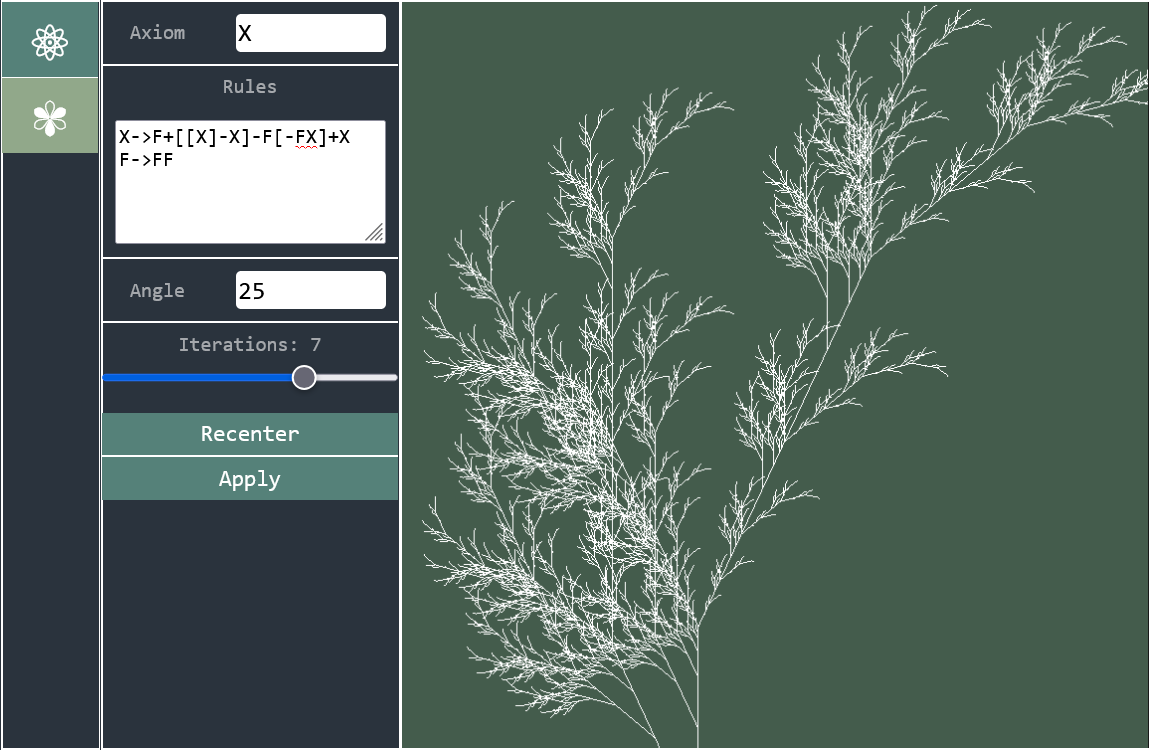
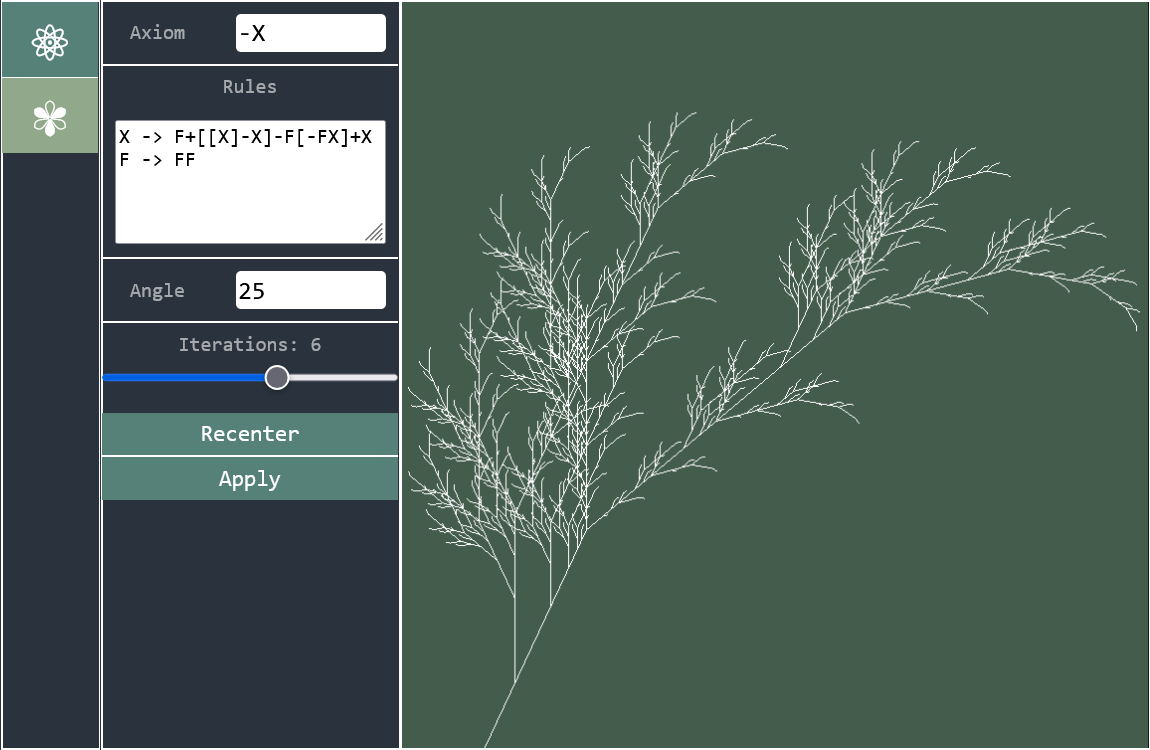
GRID size fixed, working on updated README

diff --git a/src/components/LSystem.vue b/src/components/LSystem.vue
@@ -6,12 +6,12 @@
       <div ref="settingsBar" class="settings border">
           <div class="settings-row">
             <label>Axiom</label>
-            <input type="text" v-model="axiomRef" @keyup.enter="generatePattern">
+            <input type="text" spellcheck="false" v-model="axiomRef" @keyup.enter="generatePattern">
           </div>
           <hr>
 
           <label title="[/] = push/pop, +/- = rotate, 0/1 = go forward">Rules</label>
-          <textarea v-model="rulesRef" name="Text1" rows="5"></textarea>
+          <textarea v-model="rulesRef" name="Text1" rows="5" spellcheck="false"></textarea>
           <hr>
           
           <div class="settings-row">

diff --git a/README.md b/README.md
@@ -1,12 +1,15 @@
 # LWV
-_LMCuber's Werke Verzeichnis_ for the web.
+_LMCuber's Werke Verzeichnis_ for the web, built with Vue.js.
+
+Currently working projects:
+* _Chemtools_: chemical structure visualiser
+* _L-systems_: L-systems generator
 
 ## chemtools
-(In)organic compound visualiser on the web, built with Vue & THREE.js.
+(In)organic compound visualiser on the web.
 
 * ChemTools sends a request to [PubChem](https://pubchem.ncbi.nlm.nih.gov/) & retrieves a SDF (Structural Data File).
 * This file then gets parsed and converted into geometry, which in turn gets rendered by THREE.js.
-* Vue manages reactive components and data.
 
 The general response time is around 100ms for smaller molecules and under 500ms for larger compounds. Some large / unstable compounds don't inherenly support a 3D view, as the PubChem API briefly quotes:
 > Conformer generation is disallowed since too many atoms, too flexible, too many undefined stereo centers
@@ -18,7 +21,7 @@ Below are a few examples of the structures generated:
 <img src="https://github.com/LMCuber/ChemTools/blob/main/previews/chem_cubane.png" width="700"/>
 
 ## L-systems
-Interactive editor for _Lindenmayer_ systems. An L-system describes a procedure where the rules of a formal language are applied onto itself in parallel.
+Interactive editor for [_Lindenmayer_ systems](https://en.wikipedia.org/wiki/L-system). An L-system describes a procedure where the rules of a formal language are applied onto itself in parallel.
 To put simply, it generates a new output string given a starting value (an _axiom_), and rewrite rules. Below is an example of such a system:
 * Axiom: `G`
 * Rules:
@@ -36,15 +39,17 @@ This output may look complicated, but try it out for yourself to see what nice p
 * `+` : rotate left
 * `-` : rotate right
 * `[` : save current location and angle
-* `]` : restore previous location and andgle
+* `]` : restore previous location and angle
 * All other characters don't have a functional meaning except for existing.
 
 L-systems can be used as an alternative declarative way to describe natural patterns, including regular shapes such as the Sierpiński triangle.
-The main application is generating pseudo-random looking branching structures, such as plants.
+The original application was generating pseudo-random looking branching structures, such as plants, to study their growth, as was done my Mr. Lindenmayer.
 
 ### Example output
 <img src="https://github.com/LMCuber/ChemTools/blob/main/previews/linden_dragon.png" width="700" />
 <img src="https://github.com/LMCuber/ChemTools/blob/main/previews/linden_plant.png" width="700"/>
+
+> Warning: the visualiser may lag when using large iterations, since the number of geometry in the scene is exponential in relation to it.
 
 ## How to run
 ### Compile and Hot-Reload for Development
